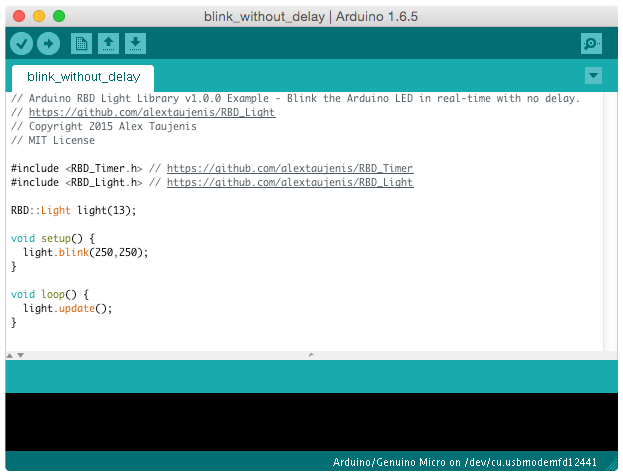
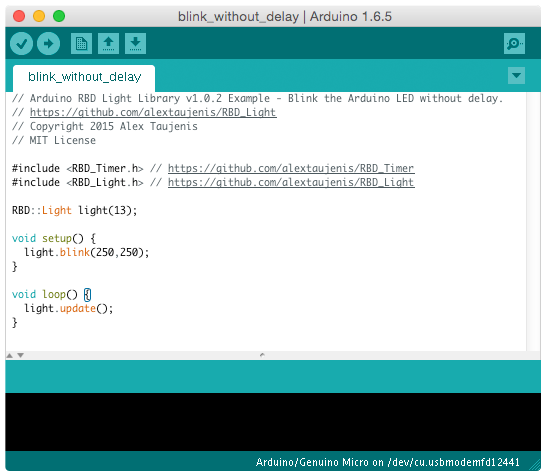
Add upgrade notice for arduino ide, edit example image

diff --git a/compiled/install.html b/compiled/install.html
@@ -1,3 +1,3 @@
 <!DOCTYPE html><html lang="en"><head><title>Robots + Big Data: Installation Guide</title><link href="style/bootstrap.min.css" rel="stylesheet" type="text/css"><link href="style/shCore.css" rel="stylesheet" type="text/css"><link href="style/shCoreDefault.css" rel="stylesheet" type="text/css"><link href="style/shThemeDefault.css" rel="stylesheet" type="text/css"><link href="style/style.css" rel="stylesheet" type="text/css"><link href="style/docs.css" rel="stylesheet" type="text/css"><link href="style/install.css" rel="stylesheet" type="text/css"><meta content="width=device-width initial-scale=1" name="viewport"></head><body><a name="top"></a><div class="top-nav-spacer1 stuck">&nbsp;</div><div class="top-nav-spacer2">&nbsp;</div><div class="navbar navbar-default navbar-fixed-top"><div class="container-fluid"><div class="navbar-header"><button id="toggle" type="button" data-toggle="collapse" data-target="#navbar-collapse" aria-expanded="false" class="navbar-toggle collapsed"><span class="sr-only">Toggle navigation</span><span class="icon-bar"></span><span class="icon-bar"></span><span class="icon-bar"></span></button><a href="../index.html" class="navbar-brand">Robots + Big Data</a></div><!-- Collect the links for mobile toggling--><div id="navbar-collapse" class="collapse navbar-collapse"><ul class="nav navbar-nav"><li><a href="install.html">Install</a></li><li><a href="docs-arduino.html">Docs</a></li><li><a href="github.html">GitHub</a></li><li><a href="#top" style="display:none;" class="back-to-top">BACK TO TOP</a></li></ul></div></div></div><div class="container-fluid install-guide"><ol class="breadcrumb stuck"><li><a href="../index.html">Home</a></li><li class="active">Install Guide</li><a href="https://github.com/alextaujenis/RobotsBigData/edit/gh-pages/app/templates/install.jade" data-toggle="tooltip" data-placement="left" title="Edit this page on GitHub." class="pull-right edit-page">edit</a></ol><div class="jumbotron"><div class="jumbotron-container"><h2>Robots + Big Data<small>INSTALL GUIDE</small></h2><p>Download and install the Arduino libraries</p><a href="#step-1" class="btn btn-danger">Begin</a>&nbsp;&nbsp;<a href="docs-arduino.html" class="btn btn-primary">Also Read the Docs</a></div></div><div class="row"><div class="col-xs-12"><a name="step-1"></a><h1>Step 1</h1><p class="lead">Download all Arduino libraries in a .zip file:</p><a href="https://github.com/alextaujenis/RobotsBigData/raw/gh-pages/compiled/downloads/RBD_Libraries.zip" class="btn btn-success">Download RBD_Libraries.zip</a></div><div class="spacer">&nbsp;</div><div class="col-xs-12"><a name="step-2"></a><h1>Step 2</h1><p class="lead">Unzip and move the contents to your Arduino libraries folder:</p><h5>INSTALL PATH</h5><script type="syntaxhighlighter" class="brush: shell; gutter: false;"><![CDATA[Mac & Linux:   Documents/Arduino/libraries
 Windows:       My Documents\Arduino\libraries
-]]></script><h5>FOLDER STRUCTURE</h5><img src="images/install-folder-structure.png"></div><div class="spacer">&nbsp;</div><div class="col-xs-12"><a name="step-3"></a><h1>Step 3</h1><p class="lead">Close and re-open the Arduino IDE to start using the libraries:</p><a href="docs-arduino-light.html"><img src="images/arduino-ide.png"></a></div><div class="spacer">&nbsp;</div><div class="col-xs-12"><a name="next-step"></a><h1>Next Step</h1><p class="lead">Read&nbsp;<a href="docs-arduino.html">the docs</a> to learn how to use the libraries.</p></div><div class="spacer">&nbsp;</div><div class="spacer">&nbsp;</div></div></div><div class="navbar navbar-default navbar-footer"><div class="container-fluid"><div class="row"><div class="col-xs-12 text-right">&copy; 2015&nbsp;<a href="http://opensource.org/licenses/mit-license.php">MIT License</a></div></div></div></div><script src="libraries/jquery.min.js"></script><script src="libraries/bootstrap.min.js"></script><script src="code/init_bootstrap.js"></script><script src="code/back_to_top.js"></script><script src="libraries/jquery.stuck.js"></script><script src="code/init_jquery_stuck.js"></script><script src="libraries/shCore.js"></script><script src="libraries/shLegacy.js"></script><script src="libraries/shAutoloader.js"></script><script src="libraries/shBrushCpp.js"></script><script src="libraries/shBrushBash.js"></script><script src="libraries/shBrushJScript.js"></script><script src="code/syntax_highlighter.js"></script><script src="libraries/click_flash.js"></script><script src="libraries/jquery.color.min.js"></script></body></html>
+]]></script><h5>FOLDER STRUCTURE</h5><img src="images/install-folder-structure.png"></div><div class="spacer">&nbsp;</div><div class="col-xs-12"><a name="step-3"></a><h1>Step 3</h1><p class="lead">Upgrade to&nbsp;<i><a href="https://www.arduino.cc/en/Main/Software">Arduino IDE v1.5 or greater</a></i> and open an example to get started:</p><a href="docs-arduino-light.html"><img src="images/arduino-ide.png"></a></div><div class="spacer">&nbsp;</div><div class="col-xs-12"><a name="next-step"></a><h1>Next Step</h1><p class="lead">Read&nbsp;<a href="docs-arduino.html">the docs</a> to learn how to use the libraries.</p></div><div class="spacer">&nbsp;</div><div class="spacer">&nbsp;</div></div></div><div class="navbar navbar-default navbar-footer"><div class="container-fluid"><div class="row"><div class="col-xs-12 text-right">&copy; 2015&nbsp;<a href="http://opensource.org/licenses/mit-license.php">MIT License</a></div></div></div></div><script src="libraries/jquery.min.js"></script><script src="libraries/bootstrap.min.js"></script><script src="code/init_bootstrap.js"></script><script src="code/back_to_top.js"></script><script src="libraries/jquery.stuck.js"></script><script src="code/init_jquery_stuck.js"></script><script src="libraries/shCore.js"></script><script src="libraries/shLegacy.js"></script><script src="libraries/shAutoloader.js"></script><script src="libraries/shBrushCpp.js"></script><script src="libraries/shBrushBash.js"></script><script src="libraries/shBrushJScript.js"></script><script src="code/syntax_highlighter.js"></script><script src="libraries/click_flash.js"></script><script src="libraries/jquery.color.min.js"></script></body></html>
